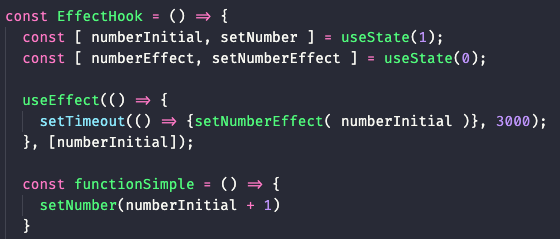
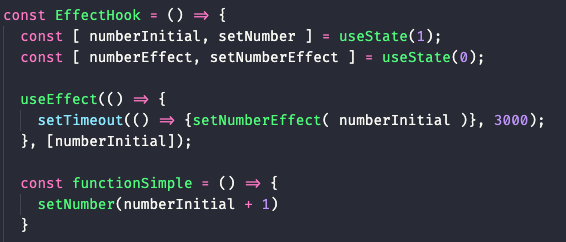
App que explica com exemplos simples como funciona o Hook Effect

Changed region(s): [[0.0, 0.0293, 0.8804, 1.0], [0.0607, 0.4686, 0.9714, 0.5565]]

diff --git a/webapp/src/components/EffectHook/index.js b/webapp/src/components/EffectHook/index.js
@@ -8,7 +8,7 @@ import './effectHook.css';
 const EffectHook = () => {
   const [ numberInitial, setNumber ] = useState(1);
   const [ numberEffect, setNumberEffect ] = useState(0);
-  
+
   useEffect(() => { 
     setTimeout(() => {setNumberEffect( numberInitial )}, 3000);
   }, [numberInitial]);
@@ -21,7 +21,7 @@ const EffectHook = () => {
     <>
     <div className="row">
       <InfoEffect functionSimple={functionSimple} />
-      <ExampleEffect1 numberInitial={numberInitial} />
+      <ExampleEffect1 numberEffect={numberEffect} />
       <ExampleEffect2 numberInitial={numberInitial} numberEffect={numberEffect} />
       <Conclusion />
     </div>
@@ -30,3 +30,4 @@ const EffectHook = () => {
 }
     
 export default EffectHook;
+
